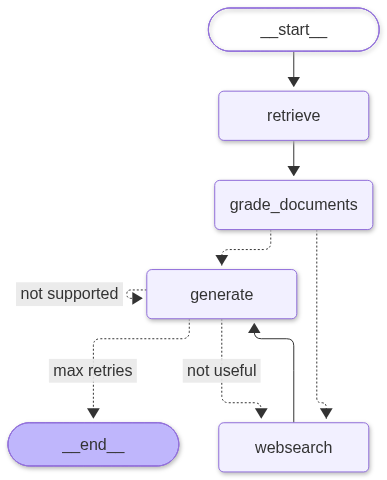
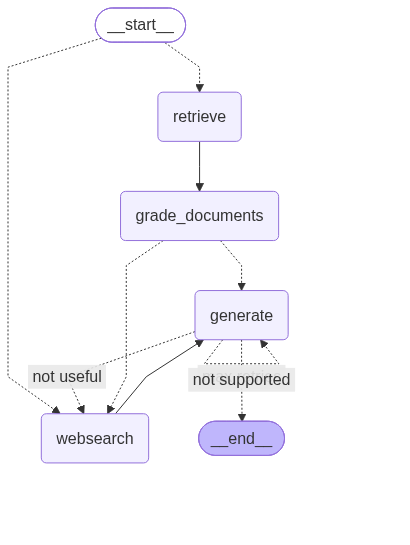
Add question router to choose vectorstore or web search
- Router chain (ChatOllama llama3.1:8b) classifies questions into
  "vectorstore" (agents, prompt engineering, adversarial attacks) or "websearch"
- Use it as the graph's conditional entry point; drop the leftover
  fixed entry point to RETRIEVE so web questions skip retrieval
- web_search: tolerate missing documents when routed to directly
- Add router tests; main.py asks "agent memory?"

diff --git a/graph/graph.py b/graph/graph.py
@@ -4,6 +4,7 @@ from langgraph.graph import END, StateGraph
 
 from graph.chains.answer_grader import answer_grader
 from graph.chains.hallucination_grader import hallucination_grader
+from graph.chains.router import question_router, RouteQuery
 from graph.consts import RETRIEVE, GRADE_DOCUMENTS, GENERATE, WEBSEARCH, MAX_RETRIES
 from graph.nodes import generate, grade_documents, retrieve, web_search
 from graph.state import GraphState
@@ -57,6 +58,18 @@ def grade_generation_grounded_in_documents_and_question(state: GraphState) -> st
         return "not supported"
 
 
+def route_question(state: GraphState) -> str:
+    print("---ROUTE QUESTION---")
+    question = state["question"]
+    source: RouteQuery = question_router.invoke({"question": question})
+    if source.datasource == WEBSEARCH:
+        print("---ROUTE QUESTION TO WEB SEARCH---")
+        return WEBSEARCH
+    elif source.datasource == "vectorstore":
+        print("---ROUTE QUESTION TO RAG---")
+        return RETRIEVE
+
+
 workflow = StateGraph(GraphState)
 
 workflow.add_node(RETRIEVE, retrieve)
@@ -64,7 +77,16 @@ workflow.add_node(GRADE_DOCUMENTS, grade_documents)
 workflow.add_node(GENERATE, generate)
 workflow.add_node(WEBSEARCH, web_search)
 
-workflow.set_entry_point(RETRIEVE)
+workflow.set_conditional_entry_point(
+    route_question,
+    {
+        WEBSEARCH: WEBSEARCH,
+        RETRIEVE: RETRIEVE,
+    },
+)
+# Note: the course commit also keeps `workflow.set_entry_point(RETRIEVE)`.
+# It's removed because the router above now decides the entry; keeping both
+# would always run RETRIEVE as well, even for web-search questions.
 workflow.add_edge(RETRIEVE, GRADE_DOCUMENTS)
 workflow.add_conditional_edges(
     GRADE_DOCUMENTS,

diff --git a/graph/chains/router.py b/graph/chains/router.py
@@ -1,0 +1,30 @@
+from typing import Literal
+
+from langchain_core.prompts import ChatPromptTemplate
+from pydantic import BaseModel, Field
+from langchain_ollama import ChatOllama
+
+
+class RouteQuery(BaseModel):
+    """Route a user query to the most relevant datasource."""
+
+    datasource: Literal["vectorstore", "websearch"] = Field(
+        ...,
+        description="Given a user question choose to route it to web search or a vectorstore.",
+    )
+
+
+llm = ChatOllama(model="llama3.1:8b", temperature=0)
+structured_llm_router = llm.with_structured_output(RouteQuery)
+
+system = """You are an expert at routing a user question to a vectorstore or web search.
+The vectorstore contains documents related to agents, prompt engineering, and adversarial attacks.
+Use the vectorstore for questions on these topics. For all else, use web-search."""
+route_prompt = ChatPromptTemplate.from_messages(
+    [
+        ("system", system),
+        ("human", "{question}"),
+    ]
+)
+
+question_router = route_prompt | structured_llm_router

diff --git a/graph/chains/tests/test_chains.py b/graph/chains/tests/test_chains.py
@@ -9,6 +9,7 @@ from graph.chains.retrieval_grader import GradeDocuments, retrieval_grader
 from graph.chains.generation import generation_chain
 from ingestion import retriever
 from graph.chains.hallucination_grader import hallucination_grader, GradeHallucinations
+from graph.chains.router import question_router, RouteQuery
 
 
 def test_retrival_grader_answer_yes() -> None:
@@ -64,3 +65,17 @@ def test_hallucination_grader_answer_no() -> None:
         }
     )
     assert not res.binary_score
+
+
+def test_router_to_vectorstore() -> None:
+    question = "agent memory"
+
+    res: RouteQuery = question_router.invoke({"question": question})
+    assert res.datasource == "vectorstore"
+
+
+def test_router_to_websearch() -> None:
+    question = "how to make pizza"
+
+    res: RouteQuery = question_router.invoke({"question": question})
+    assert res.datasource == "websearch"

diff --git a/graph/nodes/web_search.py b/graph/nodes/web_search.py
@@ -13,7 +13,8 @@ web_search_tool = TavilySearch(max_results=3)
 def web_search(state: GraphState) -> Dict[str, Any]:
     print("---WEB SEARCH---")
     question = state["question"]
-    documents = state["documents"]
+    # No documents yet when the router sends the question straight here
+    documents = state.get("documents")
 
     # langchain_tavily.TavilySearch returns {"query": ..., "results": [...]}
     tavily_results = web_search_tool.invoke({"query": question})["results"]

diff --git a/main.py b/main.py
@@ -6,4 +6,4 @@ from graph.graph import app
 
 if __name__ == "__main__":
     print("Hello Advanced RAG")
-    print(app.invoke(input={"question": "what is agent memory?"}))
+    print(app.invoke(input={"question": "agent memory?"}))
